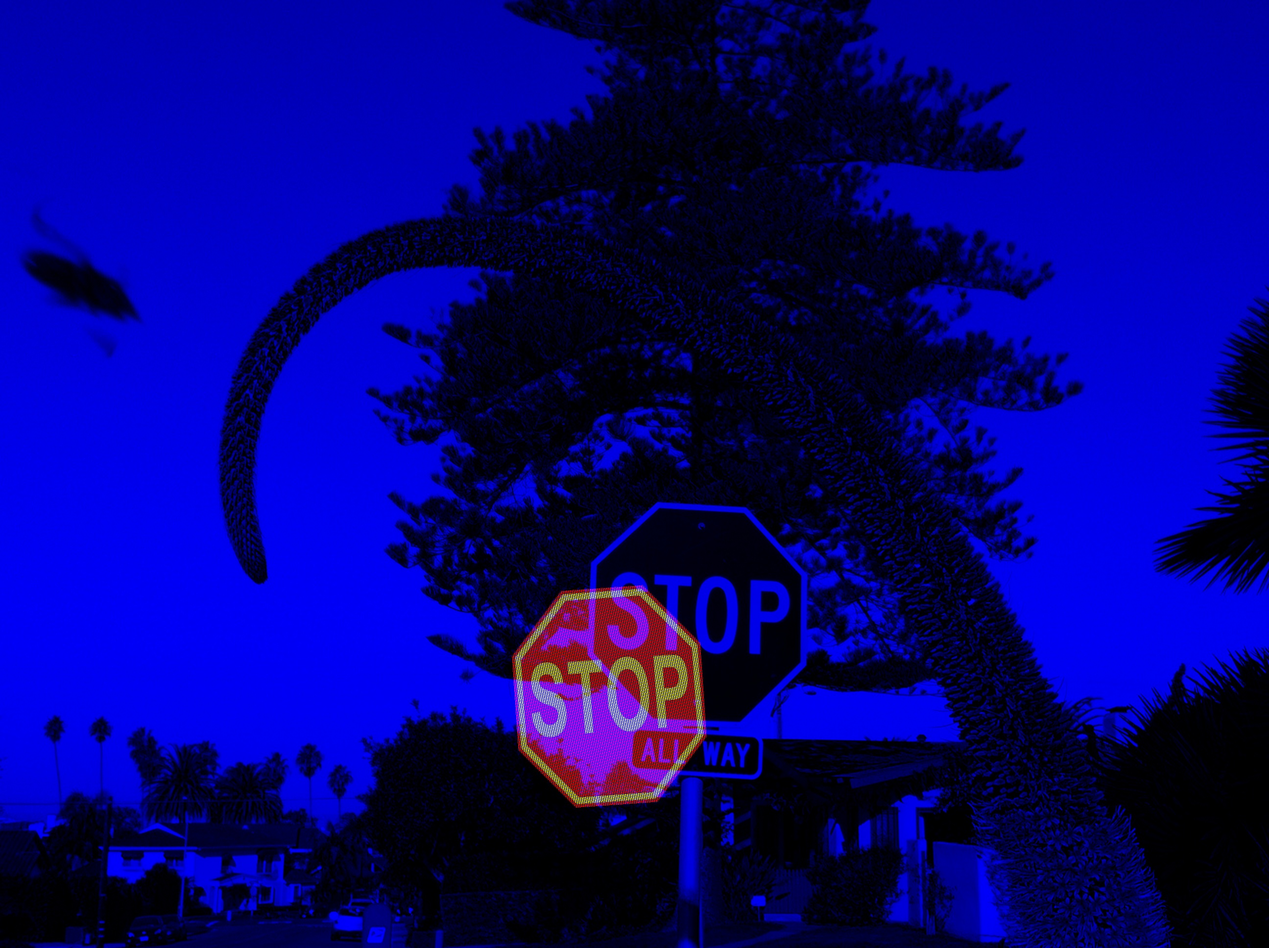
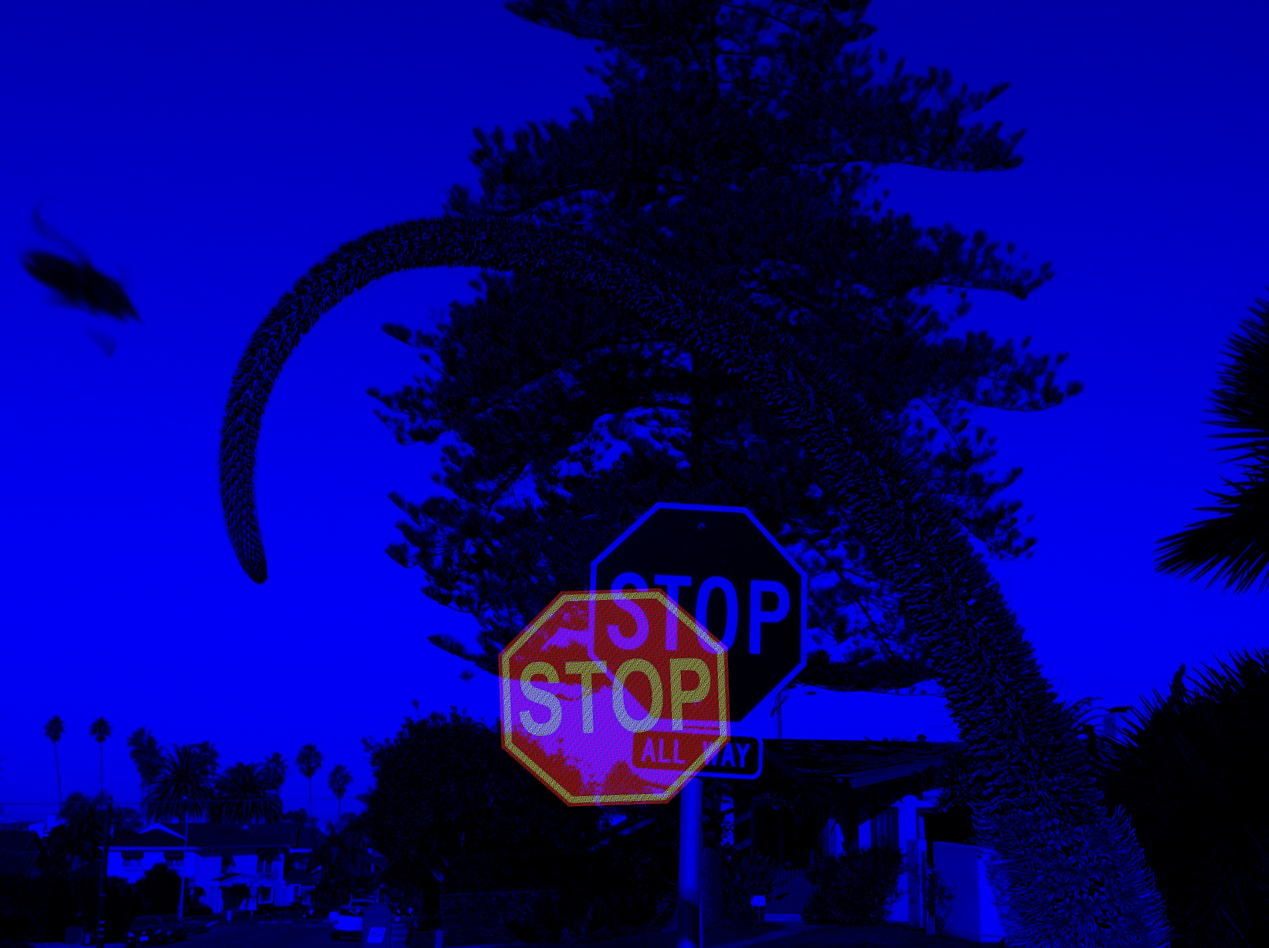
try to add Homography

Changed region(s): [[0.3705, 0.6198, 0.5866, 0.8678]]

diff --git a/HW2.py b/HW2.py
@@ -8,7 +8,7 @@ from scipy.special import *
 from random import choice
 from scipy import linalg
 
-def ransac(points_list, iters = 100 , error = 15, good_model_num = 11):
+def ransac(points_list, trans_type = 'affine', iters = 100, error = 15, good_model_num = 11):
 	'''
 		This function uses RANSAC algorithm to estimate the
 		shift and rotation between the two given images
@@ -47,8 +47,10 @@ def ransac(points_list, iters = 100 , error = 15, good_model_num = 11):
 			
 		fp = array([fp0, fp1, fp2])
 		tp = array([tp0, tp1, tp2])
-		
-		H = Haffine_from_points(fp, tp)
+		if (trans_type == 'affine'):		
+			H = Haffine_from_points(fp, tp)
+		else:
+			H = Haffine_from_points(fp, tp, 'Homography')
 							
 		# Check if the other points fit this model
 		for p in points_list_temp:
@@ -84,15 +86,17 @@ def ransac(points_list, iters = 100 , error = 15, good_model_num = 11):
 	print consensus_set	
 	return model_H
 
-def Haffine_from_points(fp,tp, matrix = 'affine'):
+def Haffine_from_points(fp, tp, trans_type = 'affine'):
 	""" find H, affine transformation, such that 
 		tp is affine transf of fp"""
 
 	if fp.shape != tp.shape:
 		raise RuntimeError, 'number of points do not match'
 	print 'fp'
+	print fp
 	print 'tp'
-
+	print tp
+ 
 	#condition points
 	#-from points-
 	m = mean(fp[:2], axis=1)
@@ -109,21 +113,41 @@ def Haffine_from_points(fp,tp, matrix = 'affine'):
 	C2[1][2] = -m[1]/maxstd
 	tp_cond = dot(C2,tp)
 
-	#conditioned points have mean zero, so translation is zero
-	A = concatenate((fp_cond[:2],tp_cond[:2]), axis=0)
-	U,S,V = linalg.svd(A.T)
+	if (trans_type == 'affine'):
+	
+		#conditioned points have mean zero, so translation is zero
+		A = concatenate((fp_cond[:2],tp_cond[:2]), axis=0)
+		U,S,V = linalg.svd(A.T)
+	
+		#create B and C matrices as Hartley-Zisserman (2:nd ed) p 130.
+		tmp = V[:2].T
+		B = tmp[:2]
+		C = tmp[2:4]
+	
+		tmp2 = concatenate((dot(C,linalg.pinv(B)),zeros((2,1))), axis=1) 
+		H = vstack((tmp2,[0,0,1]))
+	
+		#decondition
+		H = dot(linalg.inv(C2),dot(H,C1))
 
-	#create B and C matrices as Hartley-Zisserman (2:nd ed) p 130.
-	tmp = V[:2].T
-	B = tmp[:2]
-	C = tmp[2:4]
-
-	tmp2 = concatenate((dot(C,linalg.pinv(B)),zeros((2,1))), axis=1) 
-	H = vstack((tmp2,[0,0,1]))
-
-	#decondition
-	H = dot(linalg.inv(C2),dot(H,C1))
-
+	else:
+		# create matrix for linear method, 2 rows for each correspondence pair
+	    nbr_correspondences = fp.shape[1]
+	    A = zeros((2*nbr_correspondences,9))
+	    for i in range(nbr_correspondences):        
+	        A[2*i] = [-fp[0][i],-fp[1][i],-1,0,0,0,
+	                    tp[0][i]*fp[0][i],tp[0][i]*fp[1][i],tp[0][i]]
+	        A[2*i+1] = [0,0,0,-fp[0][i],-fp[1][i],-1,
+	                    tp[1][i]*fp[0][i],tp[1][i]*fp[1][i],tp[1][i]]
+	    
+	    U,S,V = linalg.svd(A)
+	    H = V[8].reshape((3,3))    
+	    
+	    # decondition
+	    H = dot(linalg.inv(C2),dot(H,C1))
+	    
+	    # normalize and return
+	
 	return H / H[2][2]
 
 def findInterestPoints(filename):
@@ -191,9 +215,9 @@ def showMatches(matches1, matches2, image1, image2):
 	
 	return res
 
-def affineMatches(matches, image1, image2) :
+def affineMatches(matches, image1, image2, trans_type) :
 	# print matches
-	H = ransac(matches)
+	H = ransac(matches, trans_type)
 	matches_affine = []
 	matches_affine1 = []
 	matches_affine2 = []
@@ -247,9 +271,14 @@ if __name__ == "__main__":
 	result_img12 = showMatches(kps1, kps2, img1, img2)
 	cv2.imwrite('result12.png', result_img12)
 	
-	result_img12_affine, H, avgError = affineMatches(kps, img1, img2)
+	result_img12_affine, A, avgError = affineMatches(kps, img1, img2, 'affine')
 	cv2.imwrite('result12_affine.png', result_img12_affine)
+
+	# Q7	
 	print "Average Error" + str(avgError)
+
+#	result_img12_Homography, H, avgError = affineMatches(kps, img1, img2, 'Homography')
+#	cv2.imwrite('result12_homography.png', result_img12_Homography)
 
 	alignImages(img1,img2,H)
 	
